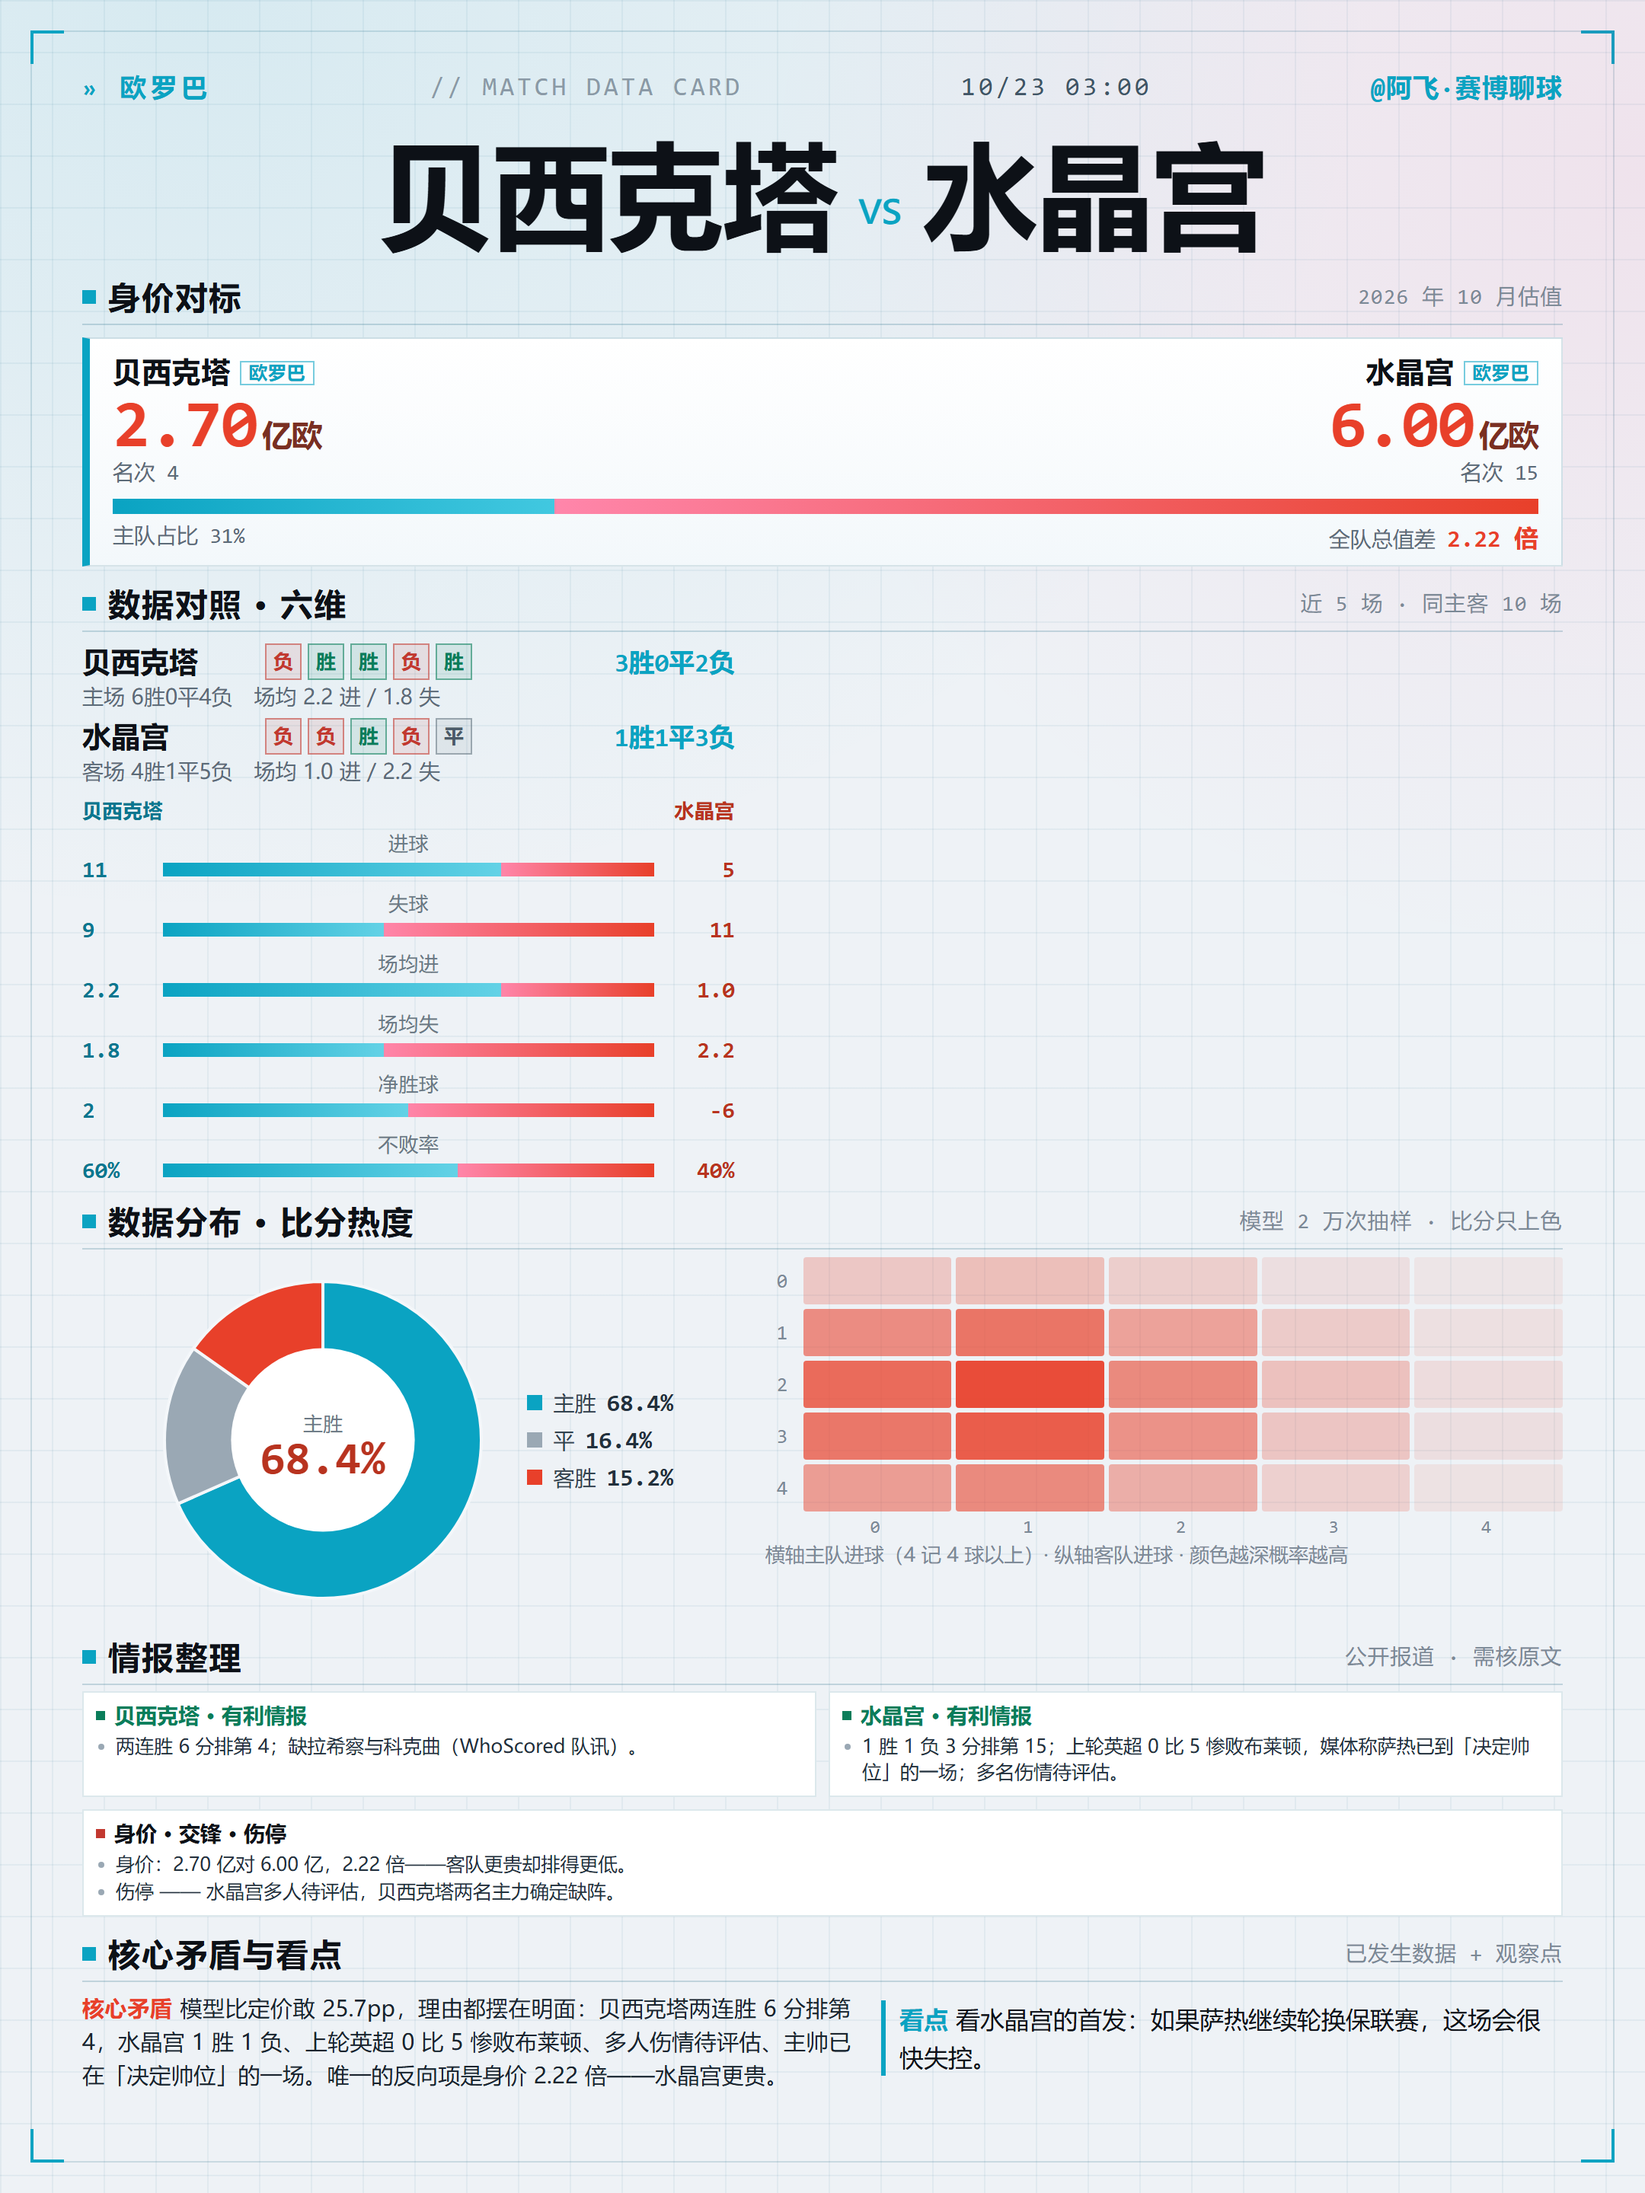
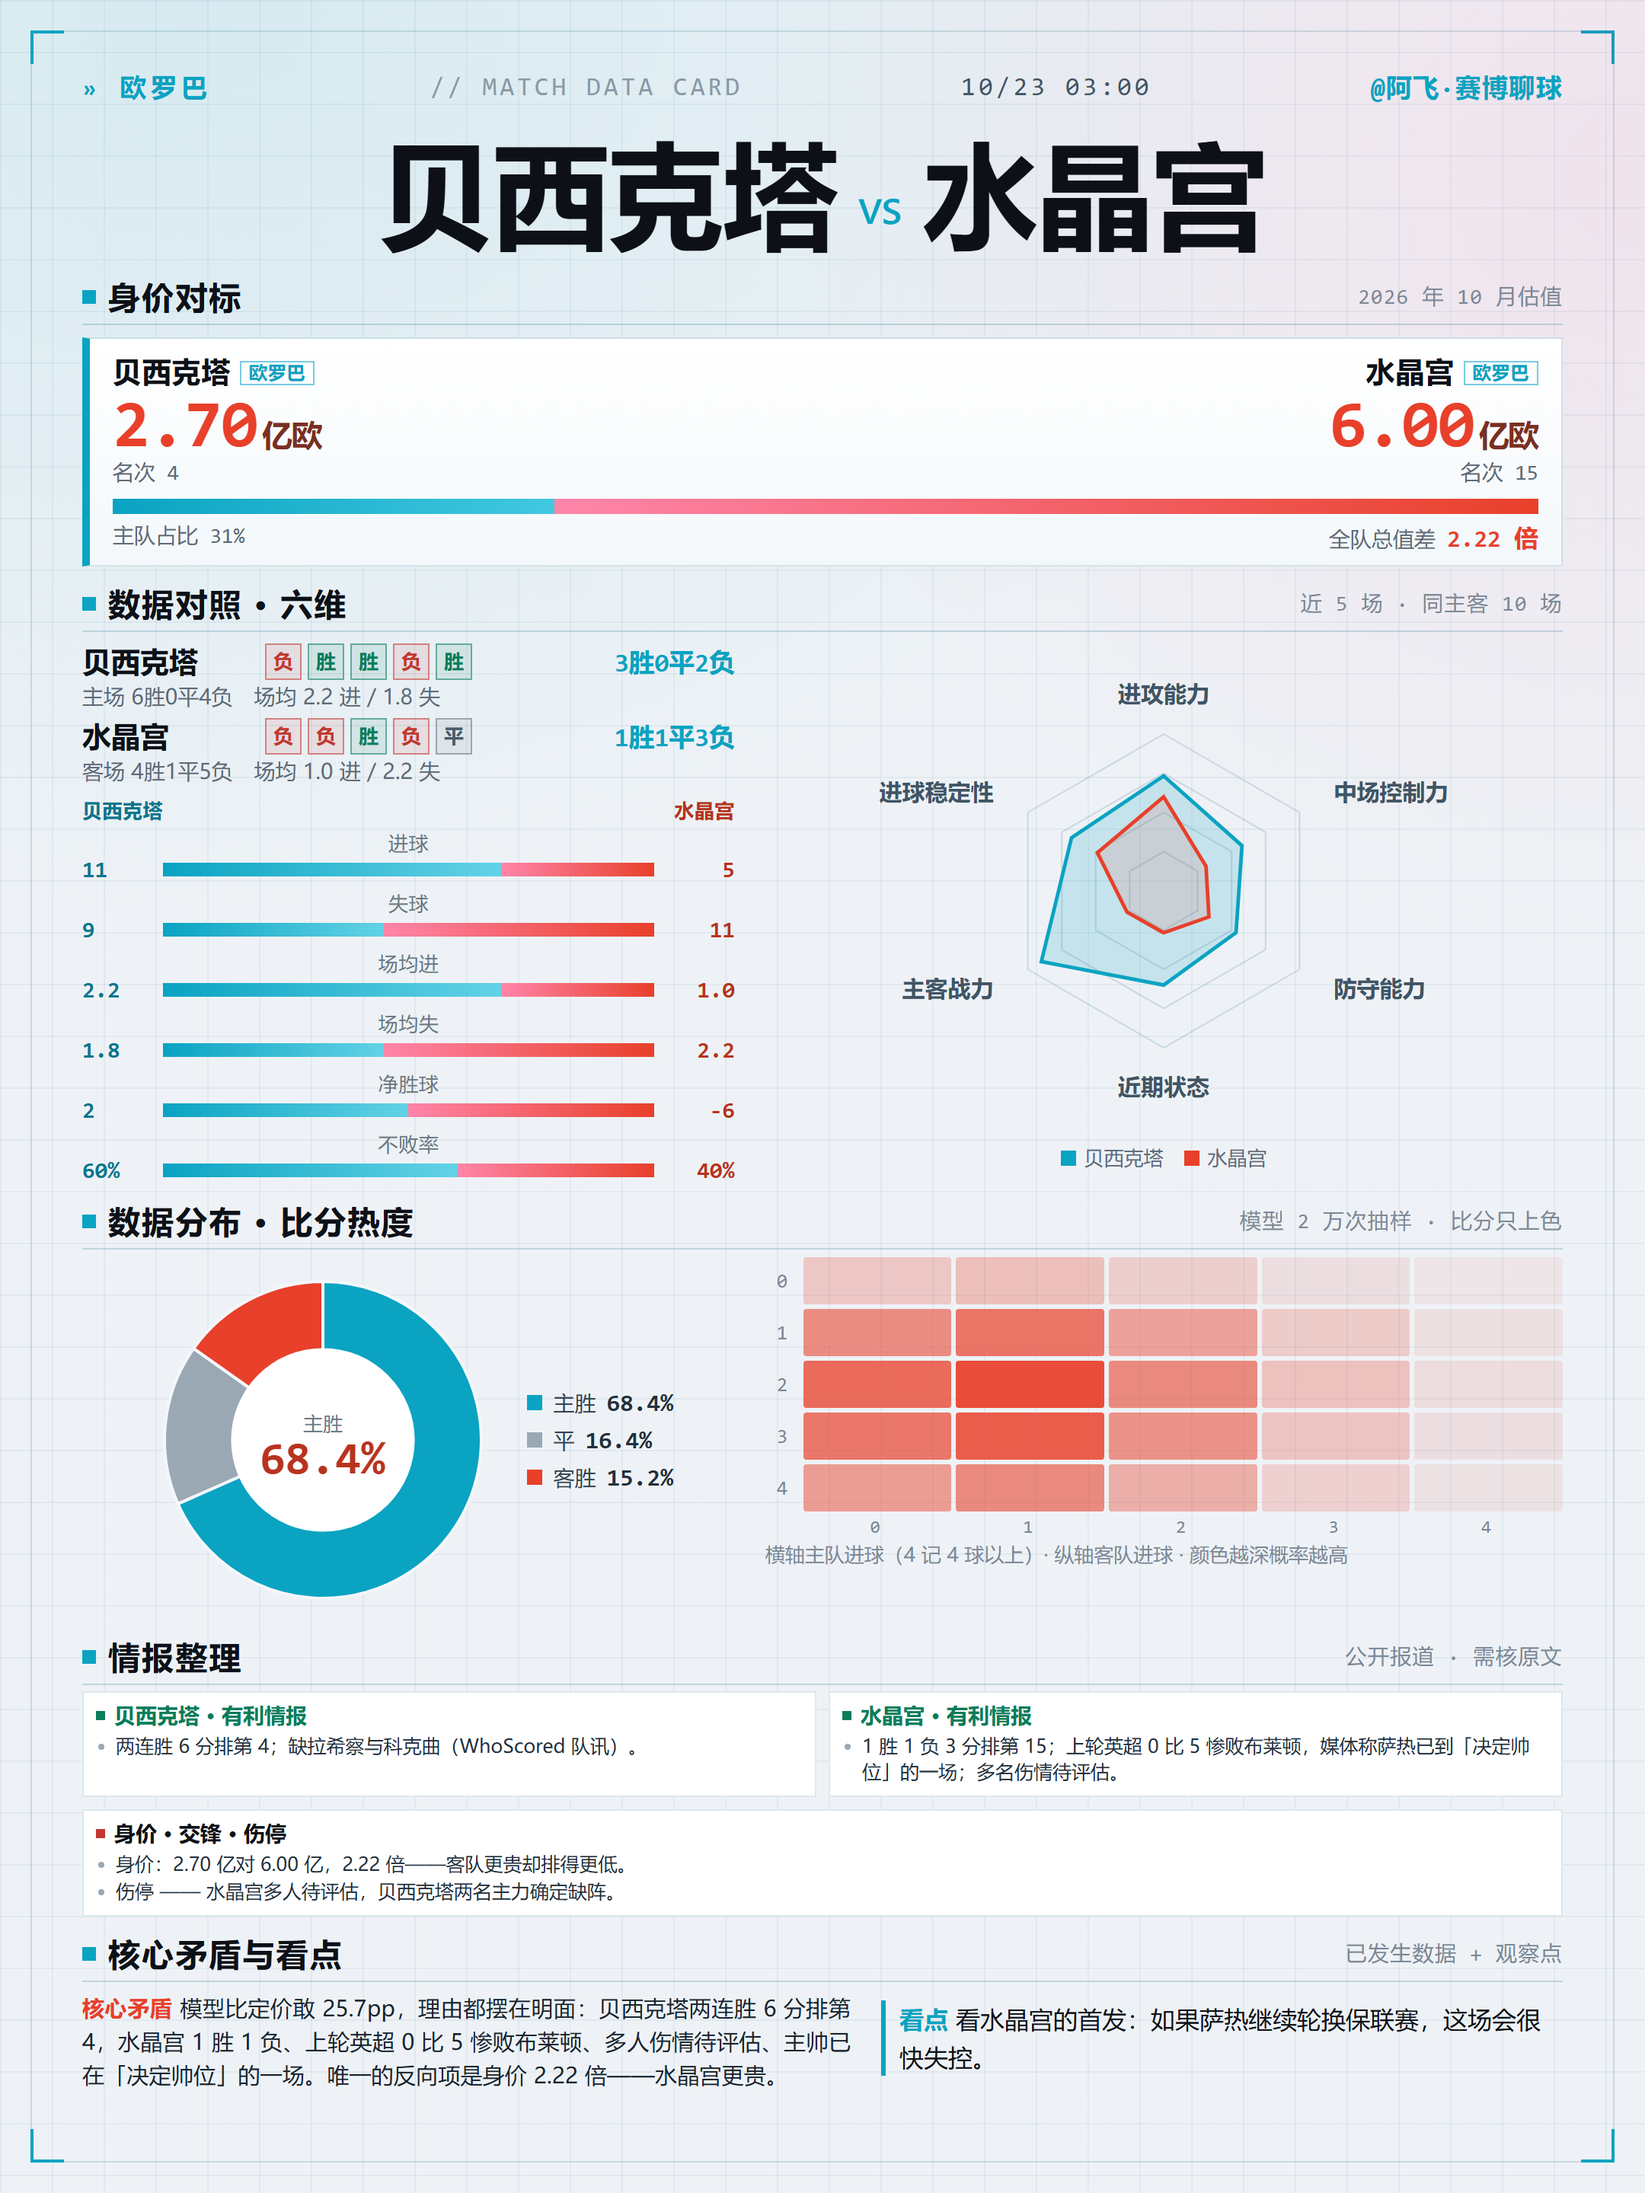
周四11场 D 版：补齐六维雷达（xhs_data 同口径算，11/11），标签外置不压线

diff --git a/scripts/xhs_card_d.py b/scripts/xhs_card_d.py
@@ -182,7 +182,7 @@ def radial(card: dict, size: int = 330) -> str:
     if not dims or len(hv) != len(dims) or len(av) != len(dims):
         return ""
     cx = cy = size / 2.0
-    rad = size / 2.0 - 34
+    rad = size / 2.0 - 62
     n = len(dims)
 
     def pt(i, val):
@@ -201,13 +201,16 @@ def radial(card: dict, size: int = 330) -> str:
                                 for i in range(n)))
     labels = []
     for i, d in enumerate(dims):
-        x, y = pt(i, 113)
+        ang = -math.pi / 2 + i * 2 * math.pi / n
+        lr = rad + 26                      # 标签放在多边形外 26px，避免压线
+        x = cx + lr * math.cos(ang)
+        y = cy + lr * math.sin(ang) + 5
         anchor = "middle"
         if x > cx + 8:
             anchor = "start"
         elif x < cx - 8:
             anchor = "end"
-        labels.append('<text x="%.1f" y="%.1f" font-size="17" font-weight="700" fill="#3f5566" '
+        labels.append('<text x="%.1f" y="%.1f" font-size="15" font-weight="700" fill="#3f5566" '
                       'text-anchor="%s">%s</text>' % (x, y, anchor, esc(d)))
     return ('<svg viewBox="0 0 %.0f %.0f" width="%.0f" height="%.0f" style="overflow:visible">%s'
             '<polygon points="%s" fill="rgba(10,163,194,.18)" stroke="#0aa3c2" stroke-width="2.4"/>'
